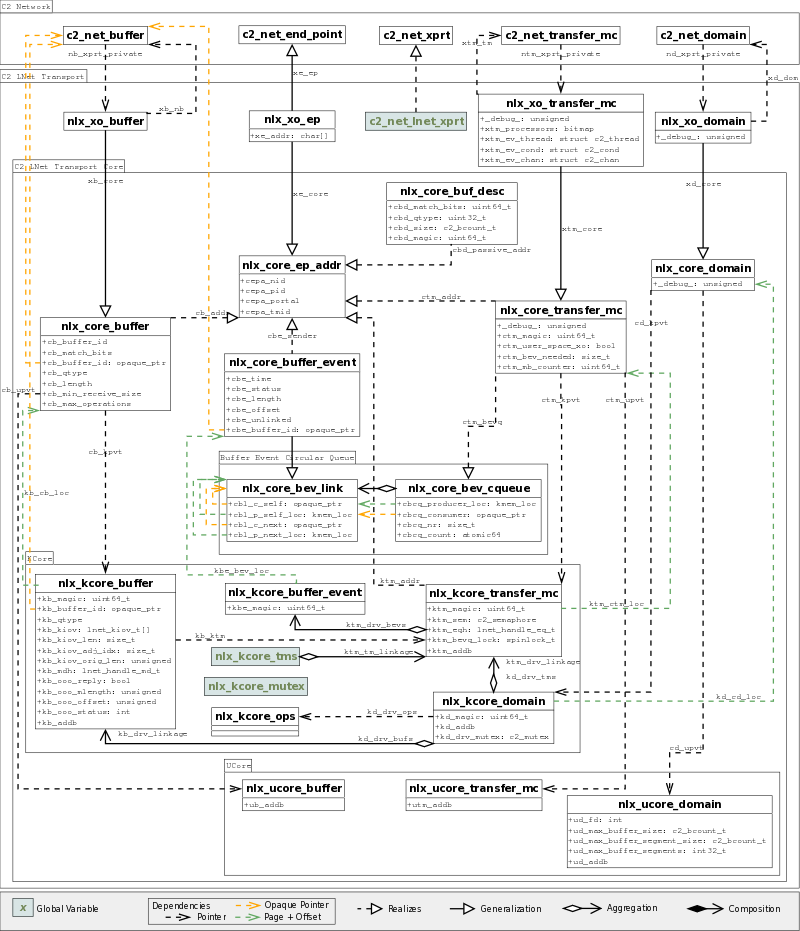
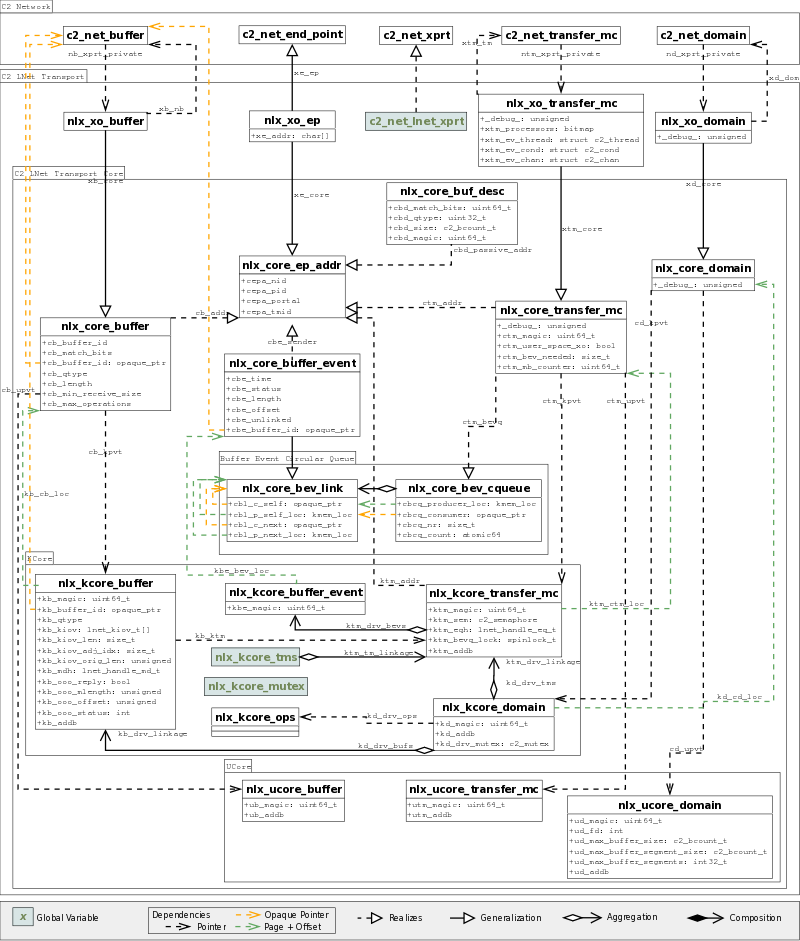
Ucore domain init and buffer registration code.

Changed region(s): [[0.0, 0.0311, 1.0, 1.0], [0.875, 0.7164, 0.9688, 0.7787]]

diff --git a/net/lnet/ulnet_core.c b/net/lnet/ulnet_core.c
@@ -27,7 +27,8 @@
    - @ref ULNetCoreDLD-req
    - @ref ULNetCoreDLD-depends
    - @ref ULNetCoreDLD-highlights
-   - @ref LNetCoreDLD-fspec "Functional Specification"    <!-- ./lnet_core.h -->
+   - @subpage LNetCoreDLD-fspec "Functional Specification"    <!--
+                                                               ./lnet_core.h -->
         - @ref LNetCore "LNet Transport Core Interface"   <!-- ./lnet_core.h -->
         - @ref ULNetCore "Core User Space Interface"     <!-- ./ulnet_core.h -->
 	- @ref LNetDev "LNet Transport Device" <!-- linux_kernel/klnet_drv.h -->
@@ -63,7 +64,9 @@
    <hr>
    @section ULNetCoreDLD-def Definitions
 
-   Refer to <a href="https://docs.google.com/a/xyratex.com/document/d/1TZG__XViil3ATbWICojZydvKzFNbL7-JJdjBbXTLgP4/edit?hl=en_US">HLD of Colibri LNet Transport</a>.
+   Refer to <a href="https://docs.google.com/a/xyratex.com/document/d/
+1TZG__XViil3ATbWICojZydvKzFNbL7-JJdjBbXTLgP4/edit?hl=en_US">
+HLD of Colibri LNet Transport</a>.
 
    <hr>
    @section ULNetCoreDLD-req Requirements
@@ -132,7 +135,9 @@
    The Core layer in user space has no sub-components but interfaces with
    the kernel core layer via the device driver layer.
 
-   @see <a href="https://docs.google.com/a/xyratex.com/document/d/1TZG__XViil3ATbWICojZydvKzFNbL7-JJdjBbXTLgP4/edit?hl=en_US">HLD of Colibri LNet Transport</a>,
+   @see <a href="https://docs.google.com/a/xyratex.com/document/d/
+1TZG__XViil3ATbWICojZydvKzFNbL7-JJdjBbXTLgP4/edit?hl=en_US">
+HLD of Colibri LNet Transport</a>,
    specifically the Design Highlights component diagram.
    @see @ref KLNetCoreDLD-lspec-userspace
    "Kernel Support for User Space Transports".
@@ -458,7 +463,8 @@
    minimize context switching.  This is accomplished by use of shared memory and
    a circular buffer event queue maintained in shared memory.  For more
    information, refer to the
-   <a href="https://docs.google.com/a/xyratex.com/document/d/1TZG__XViil3ATbWICojZydvKzFNbL7-JJdjBbXTLgP4/edit?hl=en_US">HLD</a>.
+   <a href="https://docs.google.com/a/xyratex.com/document/d/
+1TZG__XViil3ATbWICojZydvKzFNbL7-JJdjBbXTLgP4/edit?hl=en_US">HLD</a>.
 
    In general, the User Core layer simply routes parameters to and from
    the Kernel Core via the LNet driver.  The complexity of this routing
@@ -471,12 +477,28 @@
 
    <hr>
    @section ULNetCoreDLD-ref References
-   - <a href="https://docs.google.com/a/xyratex.com/document/d/1TZG__XViil3ATbWICojZydvKzFNbL7-JJdjBbXTLgP4/edit?hl=en_US">HLD of Colibri LNet Transport</a>
+   - <a href="https://docs.google.com/a/xyratex.com/document/d/
+1TZG__XViil3ATbWICojZydvKzFNbL7-JJdjBbXTLgP4/edit?hl=en_US">
+HLD of Colibri LNet Transport</a>
    - @ref KLNetCoreDLD "LNet Transport Kernel Core DLD" <!--
      ./linux_kernel/klnet_core.c -->
    - @ref LNetDRVDLD "LNet Transport Device DLD" <!--
      ./linux_kernel/klnet_drv.c -->
  */
+
+#include <sys/types.h>
+#include <sys/stat.h>
+#include <sys/ioctl.h>
+#include <fcntl.h>
+
+/**
+   @addtogroup ULNetCore
+
+   @{
+*/
+
+/** The name of the core device */
+static const char *nlx_ucore_dev_name = "/dev/c2lnet";
 
 void *nlx_core_mem_alloc(size_t size, unsigned shift)
 {
@@ -488,49 +510,195 @@ void nlx_core_mem_free(void *data, size_t size, unsigned shift)
 	c2_free_aligned(data, size, shift);
 }
 
-int nlx_core_dom_init(struct c2_net_domain *dom, struct nlx_core_domain *lcdom)
+/**
+   Invariant for the nlx_ucore_domain structure.
+ */
+static bool nlx_ucore_domain_invariant(const struct nlx_ucore_domain *ud)
 {
-	/** @todo XXX implement */
-	return -ENOSYS;
+	if (ud == NULL || ud->ud_magic != C2_NET_LNET_UCORE_DOM_MAGIC)
+		return false;
+	if (ud->ud_fd < 0) /* note: 0 is a valid fd */
+		return false;
+	if (ud->ud_max_buffer_size == 0 ||
+	    ud->ud_max_buffer_segment_size == 0 ||
+	    ud->ud_max_buffer_segments == 0)
+		return false;
+	return true;
 }
 
-void nlx_core_dom_fini(struct nlx_core_domain *lcdom)
+int nlx_core_dom_init(struct c2_net_domain *dom, struct nlx_core_domain *cd)
 {
-	/** @todo XXX implement */
-}
+	struct nlx_ucore_domain *ud;
+	struct c2_lnet_dev_dom_init_params ip;
+	int rc;
 
-c2_bcount_t nlx_core_get_max_buffer_size(struct nlx_core_domain *lcdom)
-{
-	/** @todo XXX implement */
+	C2_PRE(dom != NULL && cd != NULL);
+	C2_PRE(cd->cd_kpvt == NULL && cd->cd_upvt == NULL);
+	C2_ALLOC_PTR_ADDB(ud, &dom->nd_addb, &nlx_addb_loc);
+	if (ud == NULL)
+		return -ENOMEM;
+
+	ud->ud_fd = open(nlx_ucore_dev_name, O_RDWR|O_CLOEXEC);
+	if (ud->ud_fd == -1) {
+		C2_POST(errno != 0);
+		goto fail_open;
+	}
+
+	C2_SET0(&ip);
+	ip.ddi_cd = cd;
+	if (ioctl(ud->ud_fd, C2_LNET_DOM_INIT, &ip) < 0) {
+		C2_POST(errno != 0);
+		rc = -errno;
+		goto fail_dom_init;
+	}
+	C2_POST(cd->cd_kpvt != NULL);
+
+#define NLX_IP_SET(f) ud->ud_##f = ip.ddi_##f
+	NLX_IP_SET(max_buffer_size);
+	NLX_IP_SET(max_buffer_segment_size);
+	NLX_IP_SET(max_buffer_segments);
+#undef NLX_IP_SET
+
+	c2_addb_ctx_init(&ud->ud_addb, &nlx_core_domain_addb_ctx, &c2_net_addb);
+	ud->ud_magic = C2_NET_LNET_UCORE_DOM_MAGIC;
+	C2_POST(nlx_ucore_domain_invariant(ud));
+	cd->cd_upvt = ud;
 	return 0;
+
+ fail_dom_init:
+	close(ud->ud_fd);
+ fail_open:
+	c2_free(ud);
+	C2_ASSERT(rc != 0);
+	LNET_ADDB_FUNCFAIL_ADD(dom->nd_addb, rc);
+	C2_POST(cd->cd_kpvt == NULL && cd->cd_upvt == NULL);
+	return rc;
 }
 
-c2_bcount_t nlx_core_get_max_buffer_segment_size(struct nlx_core_domain *lcdom)
+void nlx_core_dom_fini(struct nlx_core_domain *cd)
 {
-	/** @todo XXX implement */
-	return 0;
+	struct nlx_ucore_domain *ud;
+
+	C2_PRE(cd != NULL);
+	ud = cd->cd_upvt;
+	C2_PRE(nlx_ucore_domain_invariant(ud));
+	close(ud->ud_fd);
+	c2_addb_ctx_fini(&ud->ud_addb);
+	ud->ud_magic = 0;
+	c2_free(ud);
+	cd->cd_upvt = NULL;
+	cd->cd_kpvt = NULL;
+	return;
 }
 
-int32_t nlx_core_get_max_buffer_segments(struct nlx_core_domain *lcdom)
+c2_bcount_t nlx_core_get_max_buffer_size(struct nlx_core_domain *cd)
 {
-	/** @todo XXX implement */
-	return 0;
+	struct nlx_ucore_domain *ud;
+
+	C2_PRE(cd != NULL);
+	ud = cd->cd_upvt;
+	C2_PRE(nlx_ucore_domain_invariant(ud));
+	return ud->ud_max_buffer_size;
 }
 
-int nlx_core_buf_register(struct nlx_core_domain *lcdom,
+c2_bcount_t nlx_core_get_max_buffer_segment_size(struct nlx_core_domain *cd)
+{
+	struct nlx_ucore_domain *ud;
+
+	C2_PRE(cd != NULL);
+	ud = cd->cd_upvt;
+	C2_PRE(nlx_ucore_domain_invariant(ud));
+	return ud->ud_max_buffer_segment_size;
+}
+
+int32_t nlx_core_get_max_buffer_segments(struct nlx_core_domain *cd)
+{
+	struct nlx_ucore_domain *ud;
+
+	C2_PRE(cd != NULL);
+	ud = cd->cd_upvt;
+	C2_PRE(nlx_ucore_domain_invariant(ud));
+	return ud->ud_max_buffer_segments;
+}
+
+/**
+   The nlx_ucore_buffer invariant.
+ */
+static bool nlx_ucore_buffer_invariant(const struct nlx_ucore_buffer *ub)
+{
+	if (ub == NULL || ub->ub_magic != C2_NET_LNET_UCORE_BUF_MAGIC)
+		return false;
+	return true;
+}
+
+int nlx_core_buf_register(struct nlx_core_domain *cd,
 			  nlx_core_opaque_ptr_t buffer_id,
 			  const struct c2_bufvec *bvec,
-			  struct nlx_core_buffer *lcbuf)
+			  struct nlx_core_buffer *cb)
 {
-	/** @todo XXX implement */
-	C2_PRE(nlx_core_buffer_invariant(lcbuf));
-	return -ENOSYS;
+	int rc;
+	struct nlx_ucore_buffer *ub;
+	struct nlx_ucore_domain *ud;
+	struct c2_lnet_dev_buf_register_params rp;
+
+	C2_PRE(cb != NULL);
+	C2_PRE(cb->cb_kpvt == NULL && cb->cb_upvt == NULL);
+	C2_PRE(cd != NULL);
+	ud = cd->cd_upvt;
+	C2_PRE(nlx_ucore_domain_invariant(ud));
+
+	C2_ALLOC_PTR_ADDB(ub, &ud->ud_addb, &nlx_addb_loc);
+	if (ud == NULL)
+		return -ENOMEM;
+
+	C2_SET0(&rp);
+	rp.dbr_lcbuf     = cb;
+	rp.dbr_buffer_id = buffer_id;
+	rp.dbr_bvec      = *bvec;
+	if (ioctl(ud->ud_fd, C2_LNET_BUF_REGISTER, &rp) < 0) {
+		C2_POST(errno != 0);
+		rc = -errno;
+		goto fail_register;
+	}
+	C2_POST(cb->cb_kpvt != NULL);
+
+	c2_addb_ctx_init(&ub->ub_addb, &nlx_core_domain_addb_ctx, &c2_net_addb);
+	ub->ub_magic = C2_NET_LNET_UCORE_BUF_MAGIC;
+	C2_POST(nlx_ucore_buffer_invariant(ub));
+	cb->cb_upvt = ub;
+	return 0;
+
+ fail_register:
+	c2_free(ub);
+	C2_ASSERT(rc != 0);
+	LNET_ADDB_FUNCFAIL_ADD(ud->ud_addb, rc);
+	return rc;
 }
 
-void nlx_core_buf_deregister(struct nlx_core_domain *lcdom,
-			     struct nlx_core_buffer *lcbuf)
+void nlx_core_buf_deregister(struct nlx_core_domain *cd,
+			     struct nlx_core_buffer *cb)
 {
-	/** @todo XXX implement */
+	struct nlx_ucore_buffer *ub;
+	struct nlx_ucore_domain *ud;
+
+	C2_PRE(cd != NULL);
+	ud = cd->cd_upvt;
+	C2_PRE(nlx_ucore_domain_invariant(ud));
+
+	C2_PRE(cb != NULL);
+	ub = cb->cb_upvt;
+	C2_PRE(nlx_ucore_buffer_invariant(ub));
+
+	C2_PRE(cb->cb_kpvt != NULL);
+	ioctl(ud->ud_fd, C2_LNET_BUF_DEREGISTER, cb->cb_kpvt);
+
+	c2_addb_ctx_fini(&ub->ub_addb);
+	ub->ub_magic = 0;
+	c2_free(ub);
+
+	cb->cb_kpvt = NULL;
+	cb->cb_upvt = NULL;
+	return;
 }
 
 int nlx_core_buf_msg_recv(struct nlx_core_domain *cd,
@@ -671,6 +839,8 @@ static int nlx_core_init(void)
 {
 	return 0;
 }
+
+/** @} */ /* ULNetCore */
 
 /*
  *  Local variables:

diff --git a/net/lnet/ulnet_core.h b/net/lnet/ulnet_core.h
@@ -29,11 +29,18 @@
    @{
  */
 
+enum {
+	C2_NET_LNET_UCORE_DOM_MAGIC = 0x55436f7265446f6dULL, /* UCoreDom */
+	C2_NET_LNET_UCORE_TM_MAGIC  = 0x55436f7265544dULL,   /* UCoreTM */
+	C2_NET_LNET_UCORE_BUF_MAGIC = 0x55436f7265427566ULL, /* UCoreBuf */
+};
+
 /**
    Userspace domain private data.
    This structure is pointed to by nlx_core_domain::cd_upvt.
  */
 struct nlx_ucore_domain {
+	uint64_t                        ud_magic;
 	/** Cached maximum buffer size (counting all segments). */
 	c2_bcount_t                     ud_max_buffer_size;
 	/** Cached maximum size of a buffer segment. */
@@ -51,6 +58,7 @@ struct nlx_ucore_domain {
    This structure is pointed to by nlx_core_transfer_mc::ctm_upvt.
  */
 struct nlx_ucore_transfer_mc {
+	uint64_t                        utm_magic;
 	/** ADDB context for events related to this transfer machine. */
 	struct c2_addb_ctx              utm_addb;
 };
@@ -60,6 +68,7 @@ struct nlx_ucore_transfer_mc {
    This structure is pointed to by nlx_core_buffer::cb_upvt.
  */
 struct nlx_ucore_buffer {
+	uint64_t                        ub_magic;
 	/** ADDB context for events related to this buffer. */
 	struct c2_addb_ctx              ub_addb;
 };

diff --git a/net/lnet/lnet_main.c b/net/lnet/lnet_main.c
@@ -838,6 +838,7 @@ static struct nlx_debug nlx_debug = {
 #include "net/lnet/linux_kernel/klnet_core.c"
 #include "net/lnet/linux_kernel/klnet_drv.c"
 #else
+#include "net/lnet/ulnet_core.h"
 #include "net/lnet/ulnet_core.c"
 #endif
 #include "net/lnet/lnet_xo.c"
